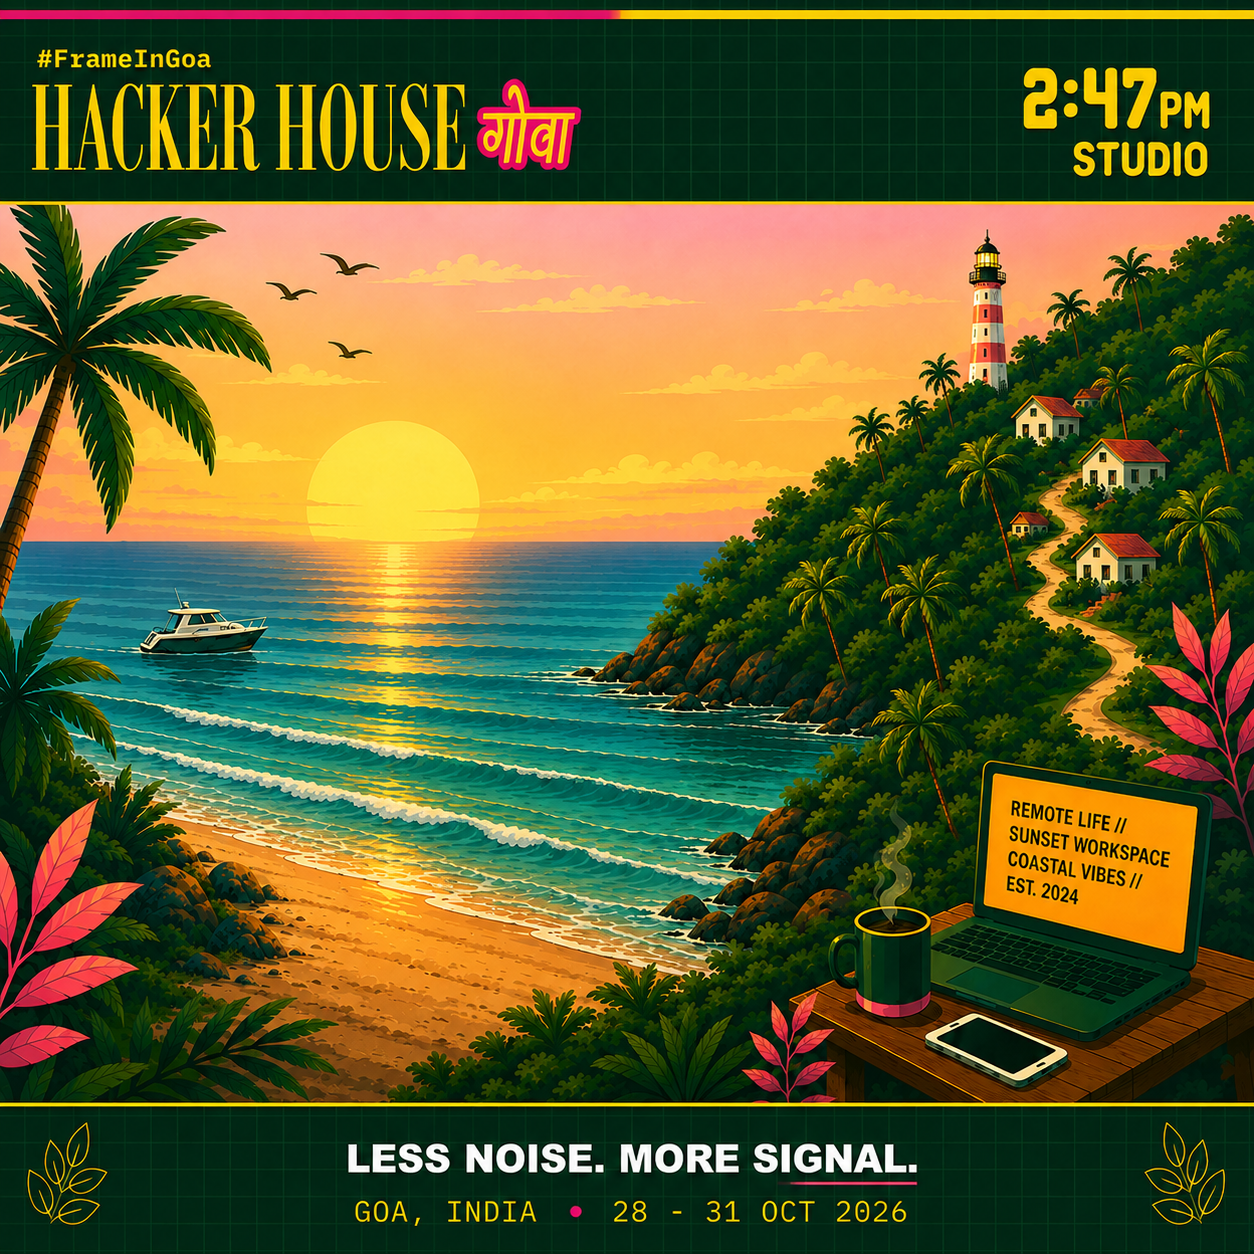
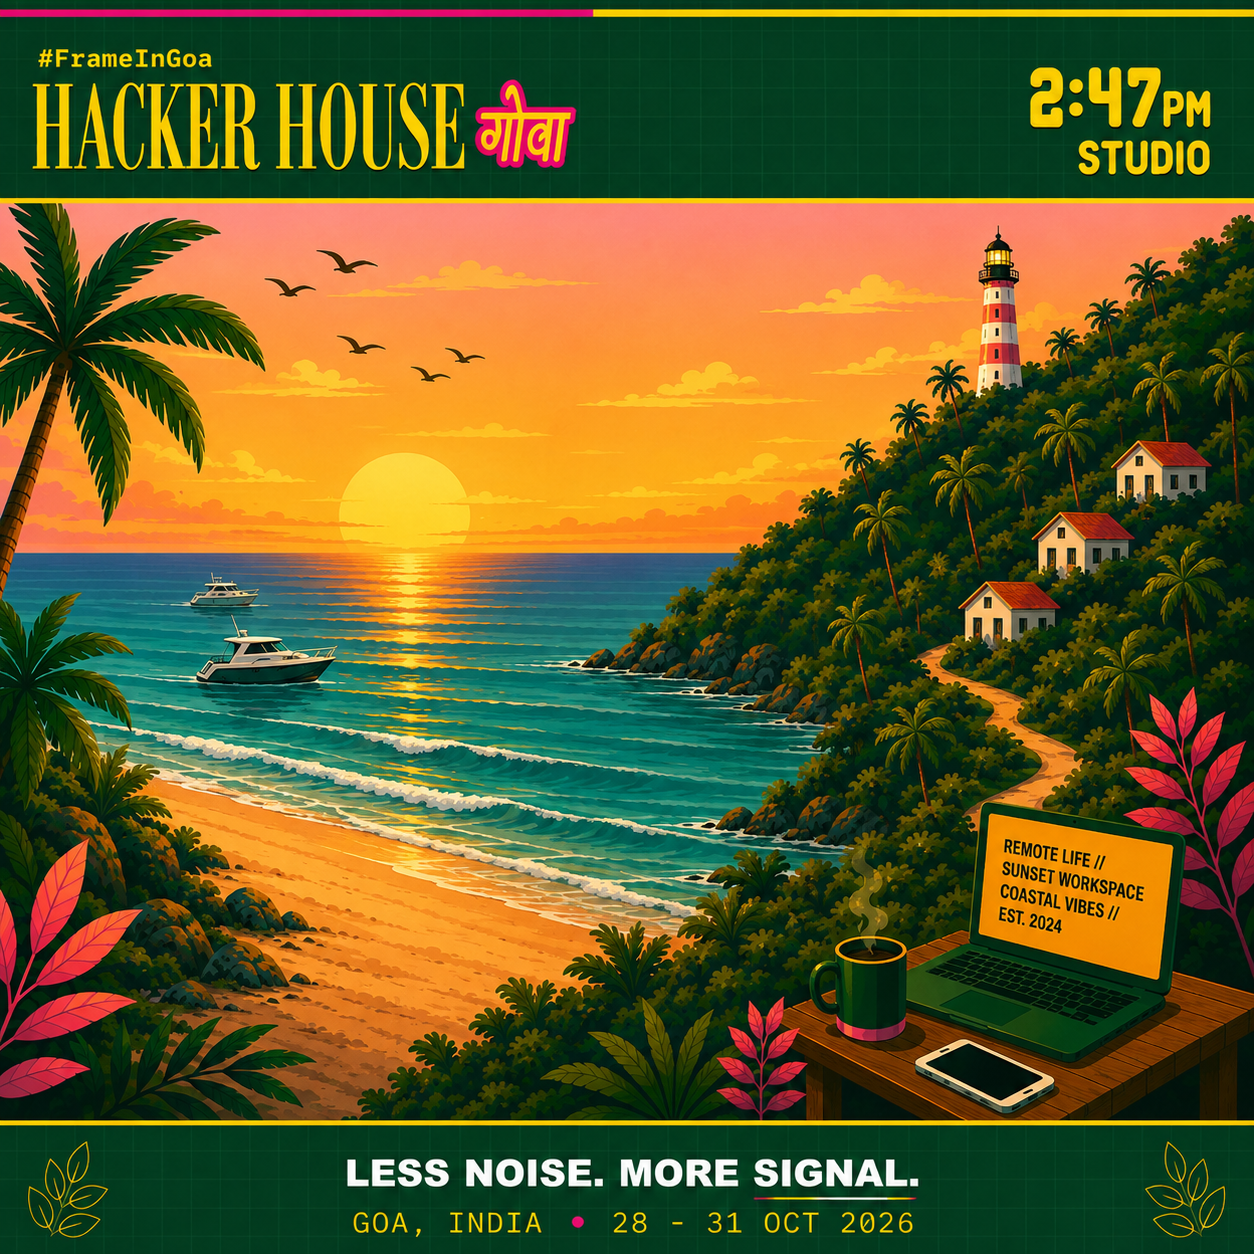
Update GENERAL_FRAME asset and set PFP placeholder border thickness to match VIP pass (4px)

diff --git a/src/utils/canvasHelper.js b/src/utils/canvasHelper.js
@@ -127,14 +127,14 @@ export async function drawPfpFrame(canvas, options) {
     // 3. Glowing Accent Border Ring (Circle, Octagon, or Square)
     ctx.save();
     ctx.strokeStyle = accent;
-    ctx.lineWidth = 14;
+    ctx.lineWidth = 4;
 
     if (frameShape === 'circle') {
       ctx.beginPath();
-      ctx.arc(center, cy, cropRadius + 2, 0, Math.PI * 2);
+      ctx.arc(center, cy, cropRadius + 1, 0, Math.PI * 2);
       ctx.stroke();
     } else if (frameShape === 'octagon') {
-      const r = cropRadius + 2;
+      const r = cropRadius + 1;
       const chamfer = 50;
       ctx.beginPath();
       ctx.moveTo(center - r + chamfer, cy - r);
@@ -148,9 +148,9 @@ export async function drawPfpFrame(canvas, options) {
       ctx.closePath();
       ctx.stroke();
     } else {
-      const boxSize = (cropRadius + 2) * 2;
+      const boxSize = (cropRadius + 1) * 2;
       ctx.beginPath();
-      ctx.roundRect(center - cropRadius - 2, cy - cropRadius - 2, boxSize, boxSize, 42);
+      ctx.roundRect(center - cropRadius - 1, cy - cropRadius - 1, boxSize, boxSize, 41);
       ctx.stroke();
     }
     ctx.restore();
@@ -159,7 +159,7 @@ export async function drawPfpFrame(canvas, options) {
     ctx.save();
     ctx.fillStyle = '#111319';
     ctx.strokeStyle = accent;
-    ctx.lineWidth = 14;
+    ctx.lineWidth = 4;
 
     ctx.beginPath();
     if (frameShape === 'circle') {
